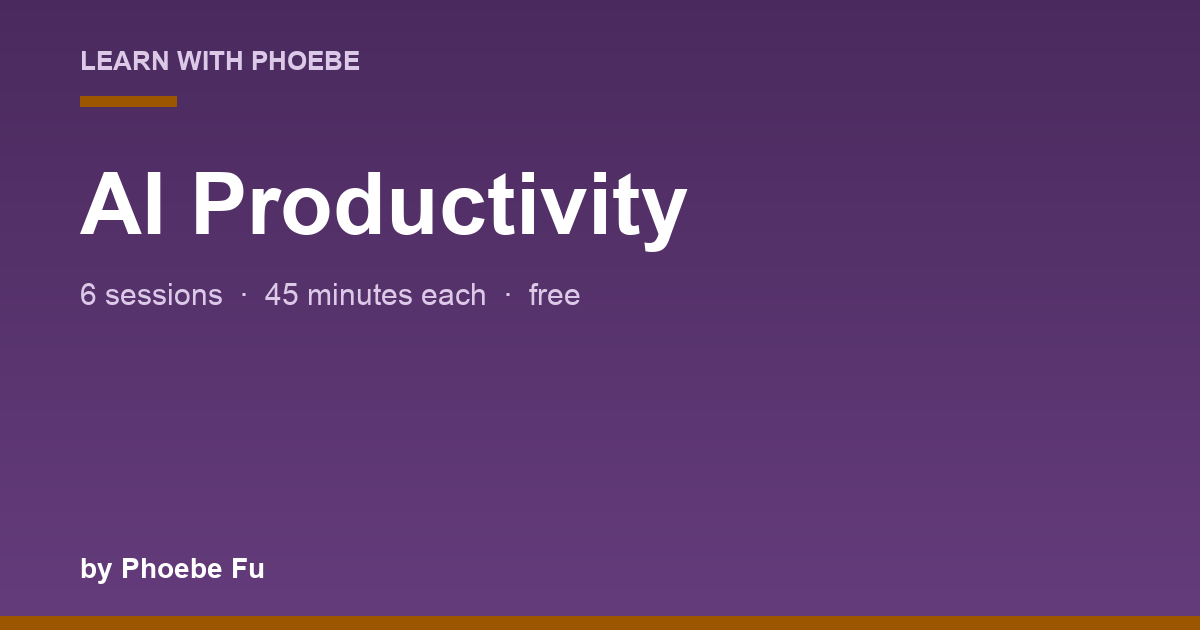
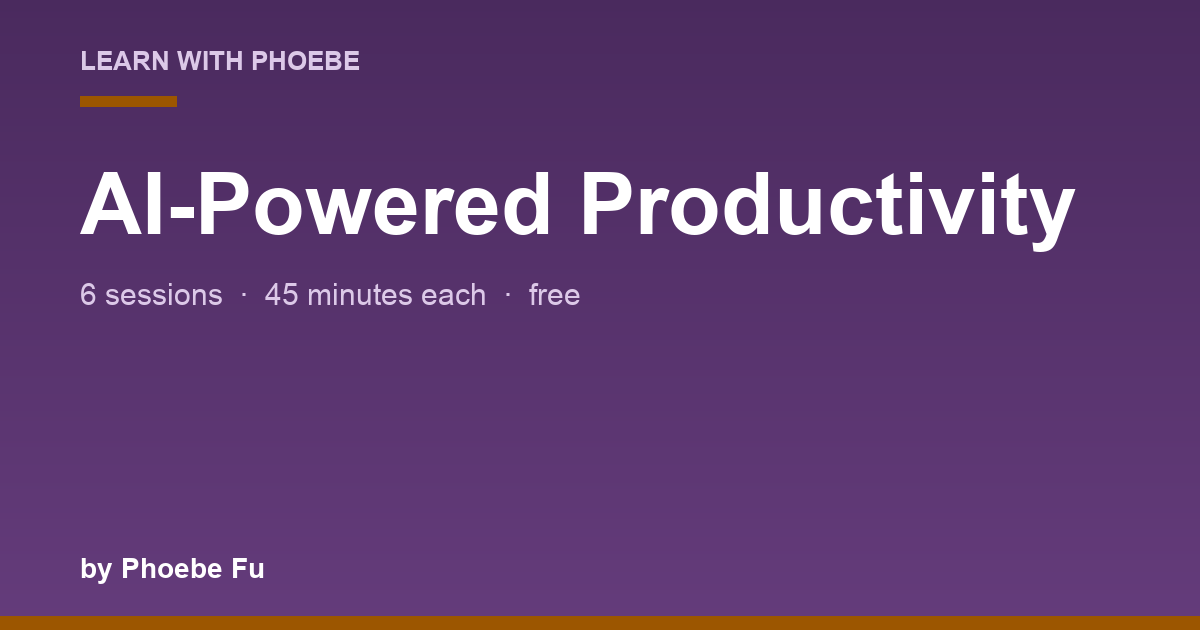
Landing title and social card match the hub title

Changed region(s): [[0.1233, 0.2714, 0.8942, 0.4222]]

diff --git a/index.html b/index.html
@@ -18,7 +18,7 @@
 <meta name="twitter:description" content="Triage, follow-ups, scoped agents and the weekly review, with a bench that counts precision and recall on real mail in your browser.">
 <meta name="twitter:image" content="https://phoebefu6.github.io/learn-ai-productivity-with-phoebe/assets/og-cover.png">
 <!-- social:end -->
-<title>Learn AI Productivity with Phoebe</title>
+<title>Learn AI-Powered Productivity with Phoebe</title>
 <link rel="stylesheet" href="assets/style.css?v=2">
 <style>
 
